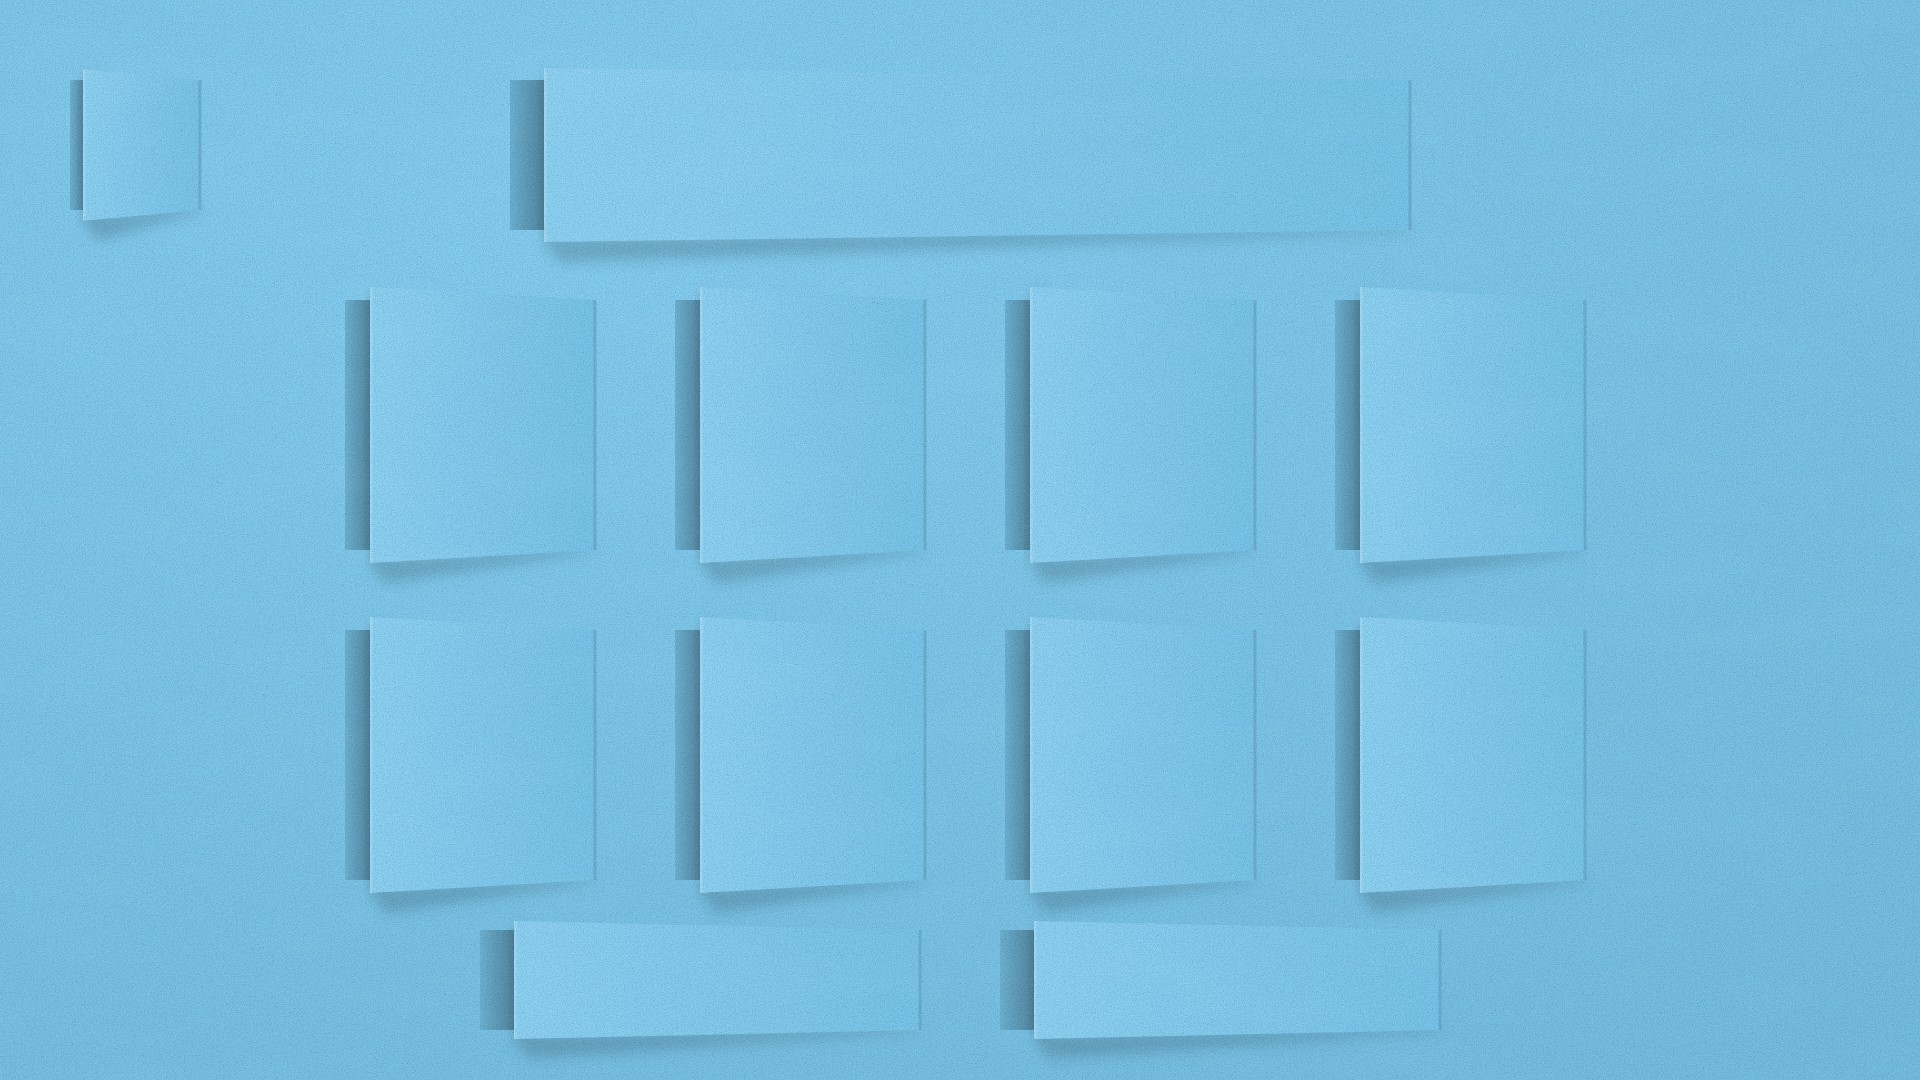
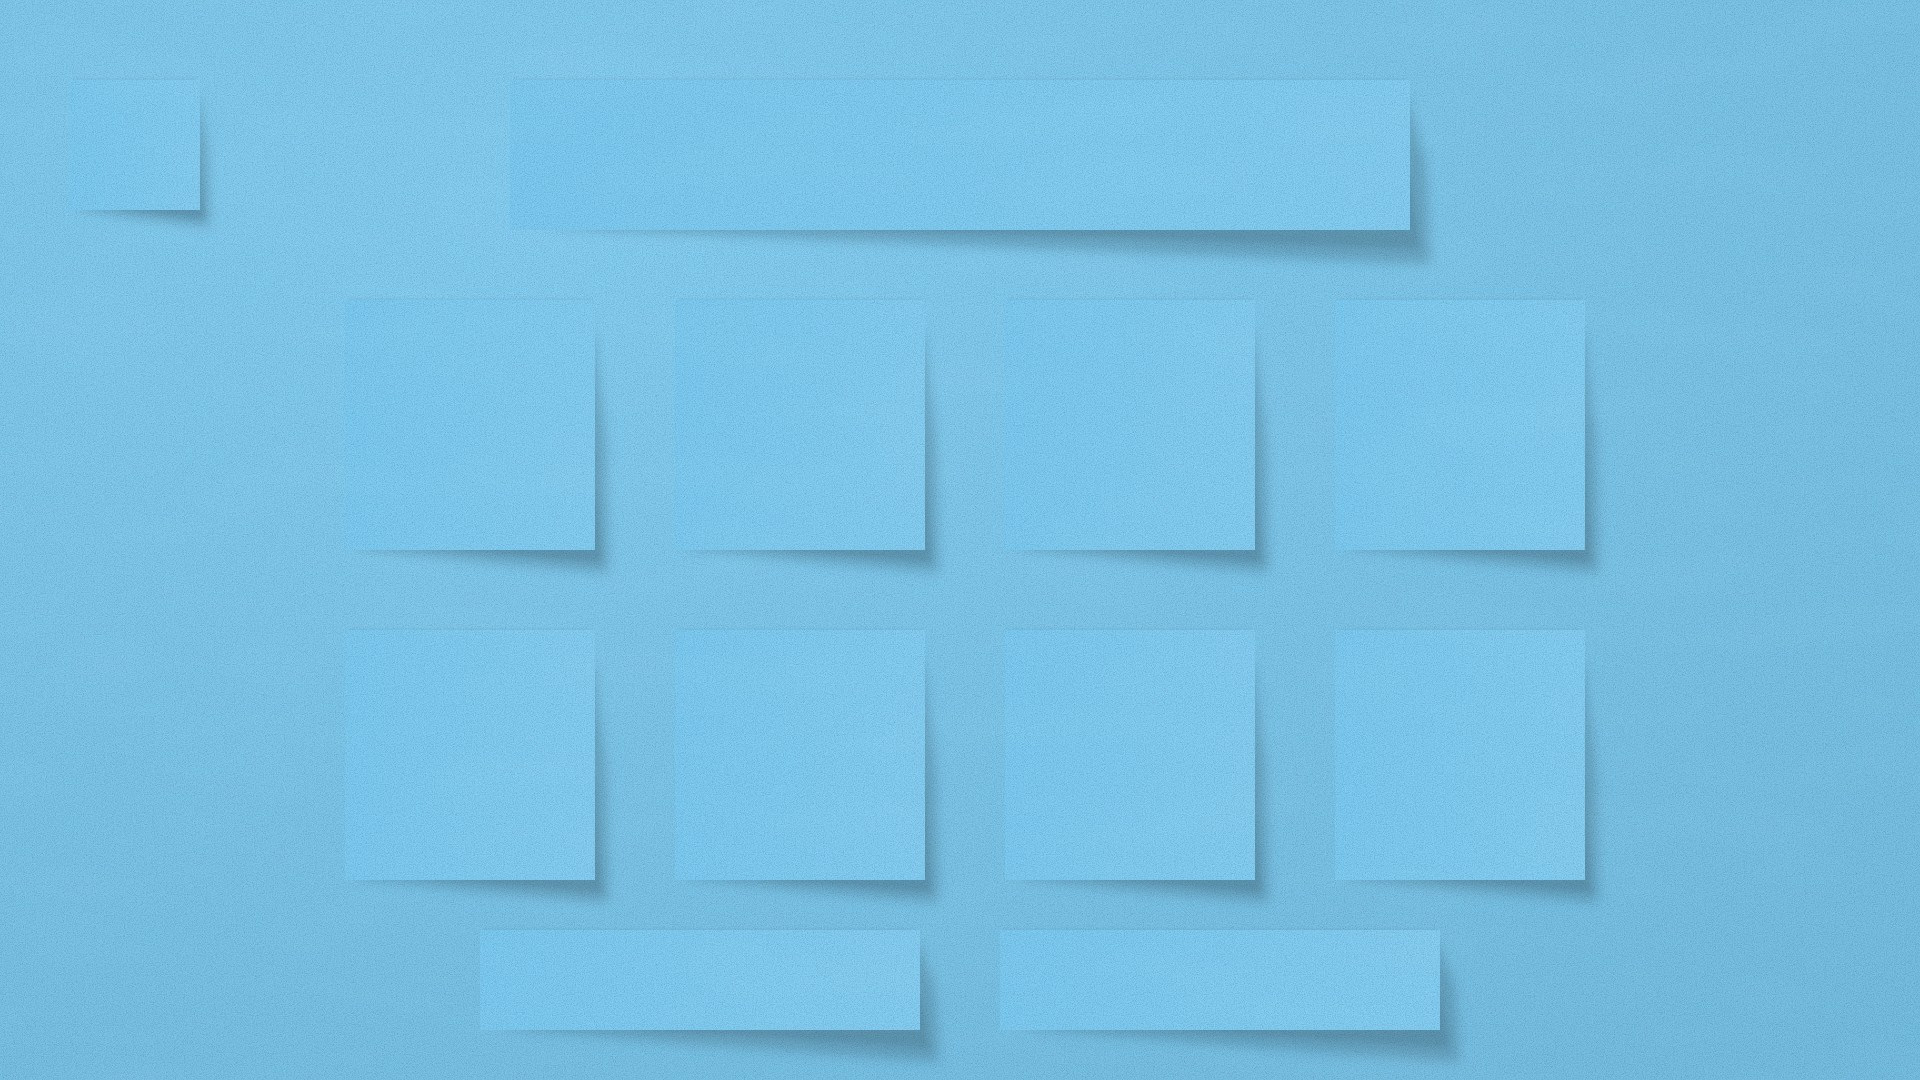
Menu backgrounds: labels fixed on the left, peeling up to the bottom right with a soft tinted shadow

diff --git a/README.md b/README.md
@@ -54,7 +54,7 @@ paper style but are measured in **metres** and carry named nodes, anchors and an
 | `models/buildings/skill_*`, `models/areas/town_page_grid` | Fold Town skill buildings in three tiers and the town page base (tile units) |
 | `models/rewards/`, `models/ui/`, `models/fx/` | Stars, badges, shield, trophy; paper button, panel and palm menu; confetti, scraps, crease, sparkle |
 | `models/scale.json` | City scale on the book page (`city_tile_on_book_m`) |
-| `2d/` | SVG + PNG: avatars (8 species × 5 missions), picture-password symbols, logo, app icon, favicon, game and mission icons, Devpost and social images. `2d/backgrounds/`: matte paper menu backgrounds (1920×1080 JPG + SVG) with label flaps cut from the sheet and pried up (hinged on the right) in 3 layouts × 5 colours; slot rectangles in `menu_layout.json` |
+| `2d/` | SVG + PNG: avatars (8 species × 5 missions), picture-password symbols, logo, app icon, favicon, game and mission icons, Devpost and social images. `2d/backgrounds/`: matte paper menu backgrounds (1920×1080 JPG + SVG) with label slots that peel up from the sheet (left edge fixed) in 3 layouts × 5 colours; slot rectangles in `menu_layout.json` |
 
 Technical guide: [`docs/FOLDLINGS.md`](docs/FOLDLINGS.md). Batch status: [`docs/CATALOG.md`](docs/CATALOG.md).
 Sheets: [foldlings](previews/sheet_foldlings.png), [variants](previews/sheet_foldlings_variants.png),
